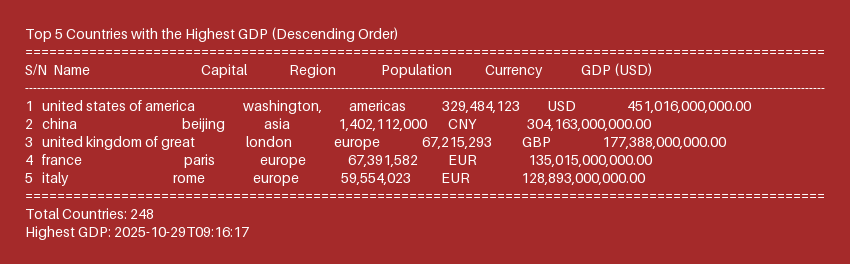
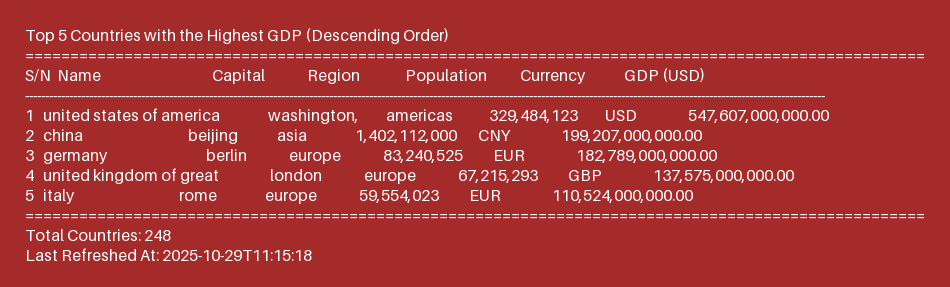
Corrections

diff --git a/src/utils.py b/src/utils.py
@@ -1,6 +1,7 @@
 from httpx import AsyncClient
 import random
 from typing import List
+from datetime import datetime
 
 from src.log import app_error, app_info
 
@@ -20,16 +21,18 @@ async def get_api(url: str):
         app_error.error(
             f"Unable to Connect to or get data from the specified URL: {url}"
         )
-        return None
 
 
-async def get_and_compute_countries_data():
+async def get_and_compute_countries_data(last_refreshed_at: datetime):
     countries_data_list = []
     countries_data = await get_api(countries_data_url)
     exchange_rate_data = await get_api(exchange_rate_url)
-    exchange_rates = exchange_rate_data.get("rates")
-    if not countries_data or not exchange_rate_data or not exchange_rates:
+    if not countries_data or not exchange_rate_data:
         return None
+    exchange_rates = exchange_rate_data.get("rates")
+    if not exchange_rates:
+        return None
+
     for data in countries_data:
         name = data.get("name")
         population = data.get("population")
@@ -59,20 +62,20 @@ async def get_and_compute_countries_data():
             "exchange_rate": exchange_rate,
             "estimated_gdp": estimated_gdp,
             "flag_url": data.get("flag"),
+            "last_refreshed_at": last_refreshed_at,
         }
         countries_data_list.append(country_data)
     return countries_data_list
 
 
 def process_orm_to_text(result: List):
-    total_count = result[0].total_count
-    last_refresh = result[0].last_time_refresh.isoformat()
-    text_output = (
-        "Top 5 Countries with the Highest GDP (Descending Order)\n"
-        "========================================================\n"
-    )
+    if not result:
+        return "No data available"
 
-    # Column titles (adjust width specifiers for alignment)
+    total_count = getattr(result[0], "total_count", None) or 0
+    last_refresh_obj = getattr(result[0], "last_time_refresh", None)
+    last_refresh = last_refresh_obj.isoformat() if last_refresh_obj else "N/A"
+
     text_output = (
         "Top 5 Countries with the Highest GDP (Descending Order)\n"
         + "=" * 100 + "\n"
@@ -86,27 +89,37 @@ def process_orm_to_text(result: List):
 
     for i, row in enumerate(result, start=1):
         country = row.CurrencyExchange
+        name = (country.name or "")[:24]
+        capital = (country.capital or "")[:11]
+        region = (country.region or "")[:11]
+        population = int(country.population) if country.population else 0
+        currency_code = country.currency_code or ""
+        estimated_gdp = float(country.estimated_gdp) if country.estimated_gdp else 0.0
+
         text_output += (
             f"{i:<4}"
-            f"{country.name[:24]:<40}"
-            f"{country.capital[:11]:<20}"
-            f"{country.region[:11]:<20}"
-            f"{int(country.population):<20,}"
-            f"{country.currency_code:<20}"
-            f"{float(country.estimated_gdp):<20,.2f}\n"
+            f"{name:<40}"
+            f"{capital:<20}"
+            f"{region:<20}"
+            f"{population:<20,}"
+            f"{currency_code:<20}"
+            f"{estimated_gdp:<20,.2f}\n"
         )
 
     text_output += "=" * 100 + "\n"
     text_output += f"Total Countries: {total_count}\n"
-    text_output += f"Highest GDP: {last_refresh:>12}\n"
+    text_output += f"Last Refreshed At: {last_refresh}\n"
 
     return text_output
 
 
 def strip_orders(string: str):
-    for i in ["asc_", "desc_"]:
-        if string.startswith(i):
-            return string.lstrip(i)
-    for i in ["_asc", "_desc"]:
-        if string.endswith(i):
-            return string.rstrip(i)
+    if string.startswith("asc_"):
+        return string[len("asc_"):]
+    if string.startswith("desc_"):
+        return string[len("desc_"):]
+    if string.endswith("_asc"):
+        return string[:-len("_asc")]
+    if string.endswith("_desc"):
+        return string[:-len("_desc")]
+    return string

diff --git a/src/exc.py b/src/exc.py
@@ -1,40 +1,82 @@
-from fastapi import HTTPException, Request, FastAPI
+from fastapi import HTTPException, Request, FastAPI, status
 from fastapi.exceptions import RequestValidationError
 from fastapi.responses import JSONResponse
+from starlette.exceptions import HTTPException as StarletteHTTPException
+from typing import Any, Dict
 
 
 class ServiceUnavailableError(HTTPException):
     pass
 
+
 class DataNotFoundException(HTTPException):
     pass
 
 
-async def exc_handler(request: Request, exc:HTTPException, content:dict):
-    return JSONResponse(
-        status_code=exc.status_code, content=content
+async def exc_handler(
+    request: Request,
+    exc: HTTPException,
+    content: Dict[str, Any],
+    status_code: int = None,
+):
+    code = (
+        status_code
+        if status_code is not None
+        else getattr(exc, "status_code", status.HTTP_500_INTERNAL_SERVER_ERROR)
+    )
+    return JSONResponse(status_code=code, content=content)
+
+
+async def requestvalidation(request: Request, exc: RequestValidationError):
+    errors = exc.errors()
+    content = {"error": "Validation failed", "details": errors}
+    return await exc_handler(
+        request, exc, content=content, status_code=status.HTTP_400_BAD_REQUEST
     )
 
-async def requestvalidation(request: Request, exc:RequestValidationError):
-    content = {
-        "error":"Validation failed", "details": exc.errors
-    }
-    return await exc_handler(request, exc, content=content)
 
-async def service_unavailable(request: Request, exc:ServiceUnavailableError):
-    content = {
-        "error":"External data source unavailable", "details": exc.detail
-    }
-    return await exc_handler(request, exc, content=content)
-
-async def not_found(request: Request, exc:DataNotFoundException):
-    content = {
-        "error":"Country not found", "details": exc.detail
-    }
-    return await exc_handler(request, exc, content=content)
+async def service_unavailable(request: Request, exc: ServiceUnavailableError):
+    content = {"error": "External data source unavailable", "details": exc.detail}
+    return await exc_handler(
+        request, exc, content=content, status_code=status.HTTP_503_SERVICE_UNAVAILABLE
+    )
 
 
-def register_exc(app:FastAPI):
+async def not_found(request: Request, exc: DataNotFoundException):
+    content = {"error": "Country not found", "details": exc.detail}
+    return await exc_handler(
+        request, exc, content=content, status_code=status.HTTP_404_NOT_FOUND
+    )
+
+
+async def starlette_validation(request: Request, exc: StarletteHTTPException):
+    detail_str = str(exc.detail).lower() if exc.detail else ""
+    if exc.status_code == 404:
+        return await exc_handler(
+            request,
+            exc,
+            {"error": "Country not found", "details": str(exc)},
+            status_code=status.HTTP_404_NOT_FOUND,
+        )
+
+    if any(
+        phrase in detail_str
+        for phrase in ["malformed", "json", "body", "parse error", "invalid json"]
+    ):
+        return await exc_handler(
+            request,
+            exc,
+            {"error": "Malformed or invalid JSON body"},
+            status_code=status.HTTP_400_BAD_REQUEST,
+        )
+
+    return JSONResponse(
+        {"error": "HTTP error", "details": str(exc)}, status_code=exc.status_code
+    )
+
+
+def register_exc(app: FastAPI):
     app.add_exception_handler(DataNotFoundException, not_found)
     app.add_exception_handler(ServiceUnavailableError, service_unavailable)
     app.add_exception_handler(RequestValidationError, requestvalidation)
+    app.add_exception_handler(StarletteHTTPException, starlette_validation)

diff --git a/src/main.py b/src/main.py
@@ -1,6 +1,6 @@
 from fastapi import FastAPI, Depends, status, Query
 from contextlib import asynccontextmanager, AsyncExitStack
-from typing import Annotated, Optional
+from typing import Annotated, Optional, List
 from fastapi.responses import FileResponse, Response
 import os.path
 
@@ -10,7 +10,7 @@ from src.log import app_info
 from src.db import db_lifespan
 from src.exc import ServiceUnavailableError, DataNotFoundException, register_exc
 from src.service import get_curreny_exchange_service, CurrencyExchangeServices
-from src.schema import ListCountriesData, DataStatus, CountryData
+from src.schema import DataStatus, CountryData
 from src.utils import process_orm_to_text
 
 currency_exchange_service = Annotated[
@@ -37,7 +37,7 @@ register_exc(app)
 
 
 
-@app.post("/countries/refresh", response_model=ListCountriesData, status_code=status.HTTP_201_CREATED)
+@app.post("/countries/refresh", response_model=List[CountryData], status_code=status.HTTP_201_CREATED)
 async def insert_or_update_data(currency_exchange: currency_exchange_service):
     result = await currency_exchange.update_econ_data()
     if not result:
@@ -48,10 +48,10 @@ async def insert_or_update_data(currency_exchange: currency_exchange_service):
     orm = await currency_exchange.data_summary()
     text = process_orm_to_text(orm)
     create_image(text)
-    return ListCountriesData(data_list=result)
+    return result
 
 
-@app.get("/countries", response_model=ListCountriesData)
+@app.get("/countries", response_model=List[CountryData])
 async def get_countries(
     currency_exchange: currency_exchange_service,
     name: Optional[str] = Query(None),
@@ -82,7 +82,7 @@ async def get_countries(
         "min_rate": min_rate,
         "max_rate": max_rate,
         "gdp": gdp,
-        "max_gdp": min_gdp,
+        "min_gdp": min_gdp,
         "max_gdp": max_gdp,
         "sort": sort,
     }
@@ -91,7 +91,7 @@ async def get_countries(
         raise DataNotFoundException(
             status_code=status.HTTP_404_NOT_FOUND, detail="Match Not Found"
         )
-    return ListCountriesData(data_list=data)
+    return data
 
 
 @app.get("/countries/image")
@@ -117,7 +117,9 @@ async def get_country_by_name(name: str, currency_exchange: currency_exchange_se
 @app.get("/status", response_model=DataStatus)
 async def get_status(currency_exchange: currency_exchange_service):
     result = await currency_exchange.get_data_status()
-    return DataStatus(total_countries=result[0], last_refreshed_at=result[1])
+    total = result[0] if result else 0
+    last = result[1] if result else None
+    return DataStatus(total_countries=total, last_refreshed_at=last)
 
 
 

diff --git a/src/service.py b/src/service.py
@@ -1,6 +1,6 @@
 from sqlalchemy.ext.asyncio import AsyncSession
 from sqlalchemy.dialects.mysql import insert
-from sqlalchemy import select, func, delete
+from sqlalchemy import select, func, delete, asc, desc
 from src.db import get_db
 from fastapi import Depends
 from typing import Annotated
@@ -44,8 +44,8 @@ class CurrencyExchangeServices:
 
     async def update_econ_data(self):
         try:
-            data_list = await get_and_compute_countries_data()
             last_refreshed_at = datetime.now(tz=timezone.utc)
+            data_list = await get_and_compute_countries_data(last_refreshed_at)
             if data_list:
                 stmt = insert(CurrencyExchange).values(data_list)
                 stmt = stmt = stmt.on_duplicate_key_update(
@@ -62,6 +62,7 @@ class CurrencyExchangeServices:
                 await self.db.commit()
                 
                 return await self.get_all()
+            return []
         except Exception as e:
             app_error.error(f"Error Encoutered while updating the Database: {e}")
             await self.db.rollback()
@@ -70,18 +71,27 @@ class CurrencyExchangeServices:
         filter_list = []
         for key, value in conditions.items():
             if value and key != "sort":
-                filter = filter_map[key](value)
-                filter_list.append(filter)
+                if isinstance(value, str):
+                    value = value.lower()
+                filter_item = filter_map[key](value)
+                filter_list.append(filter_item)
         stmt = select(CurrencyExchange)
-        if conditions.get("sort"):
-            sort = conditions["sort"]
-            sort_string = strip_orders(sort)
-            stmt = stmt.where(*filter_list).order_by(field_map[sort_string])
+        sort_val = conditions.get("sort")
+        if sort_val:
+            s = sort_val
+            field_name = strip_orders(s)
+            if s.startswith("asc_") or s.endswith("_asc"):
+                stmt = stmt.where(*filter_list).order_by(asc(field_map[field_name]))
+            elif s.startswith("desc_") or s.endswith("_desc"):
+                stmt = stmt.where(*filter_list).order_by(desc(field_map[field_name]))
+            else:
+                stmt = stmt.where(*filter_list)
         else:
             stmt = stmt.where(*filter_list)
         result = await self.db.scalars(stmt)
         return result.all()
-
+    
+    
     async def get_country_by_name(self, name: str):
         scalar_result = await self.db.scalars(
             select(CurrencyExchange).where(CurrencyExchange.name == name)

diff --git a/src/image.py b/src/image.py
@@ -1,13 +1,16 @@
 from PIL import Image, ImageDraw, ImageFont
+from pathlib import Path
 
 def create_image(text: str):
-    font = ImageFont.load_default(14)
+    cache_dir = Path("cache")
+    cache_dir.mkdir(parents=True, exist_ok=True)
+    font = ImageFont.load_default(16)
     temp = Image.new("RGB", (1, 1))
-    draw = ImageDraw.Draw(temp)
-    bbox = draw.multiline_textbbox((0, 0), text, font=font)
+    temp_draw = ImageDraw.Draw(temp)
+    bbox = temp_draw.multiline_textbbox((0, 0), text, font=font)
     width, height = bbox[2] - bbox[0], bbox[3] - bbox[1]
     padding = 25
-    img = Image.new("RGB", (width + 2*padding, height + 2*padding), "brown")
+    img = Image.new("RGB", (width + 2 * padding, height + 2 * padding), "brown")
     draw = ImageDraw.Draw(img)
-    draw.text((padding, padding), text, fill="white", font=font)
-    img.save("cache/summary.png")
+    draw.multiline_text((padding, padding), text, fill="white", font=font)
+    img.save(cache_dir / "summary.png")

diff --git a/src/schema.py b/src/schema.py
@@ -24,8 +24,4 @@ class CountryData(BaseModel):
 
     model_config = ConfigDict(from_attributes=True)
 
-class ListCountriesData(BaseModel):
-    data_list: List[CountryData]
-
-    model_config = ConfigDict(from_attributes=True)
 
